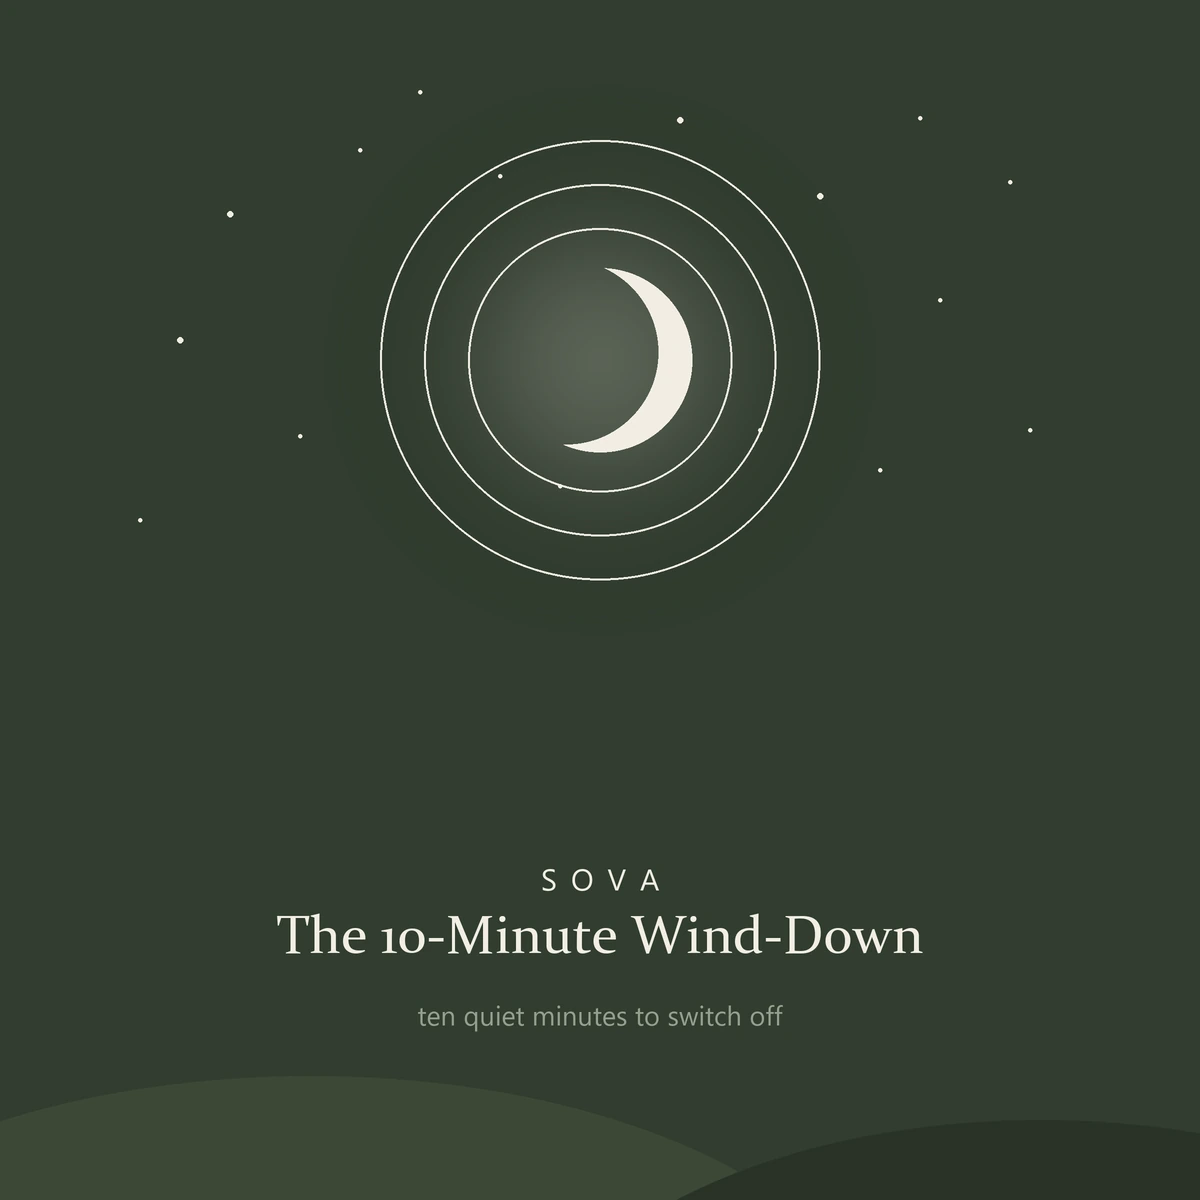
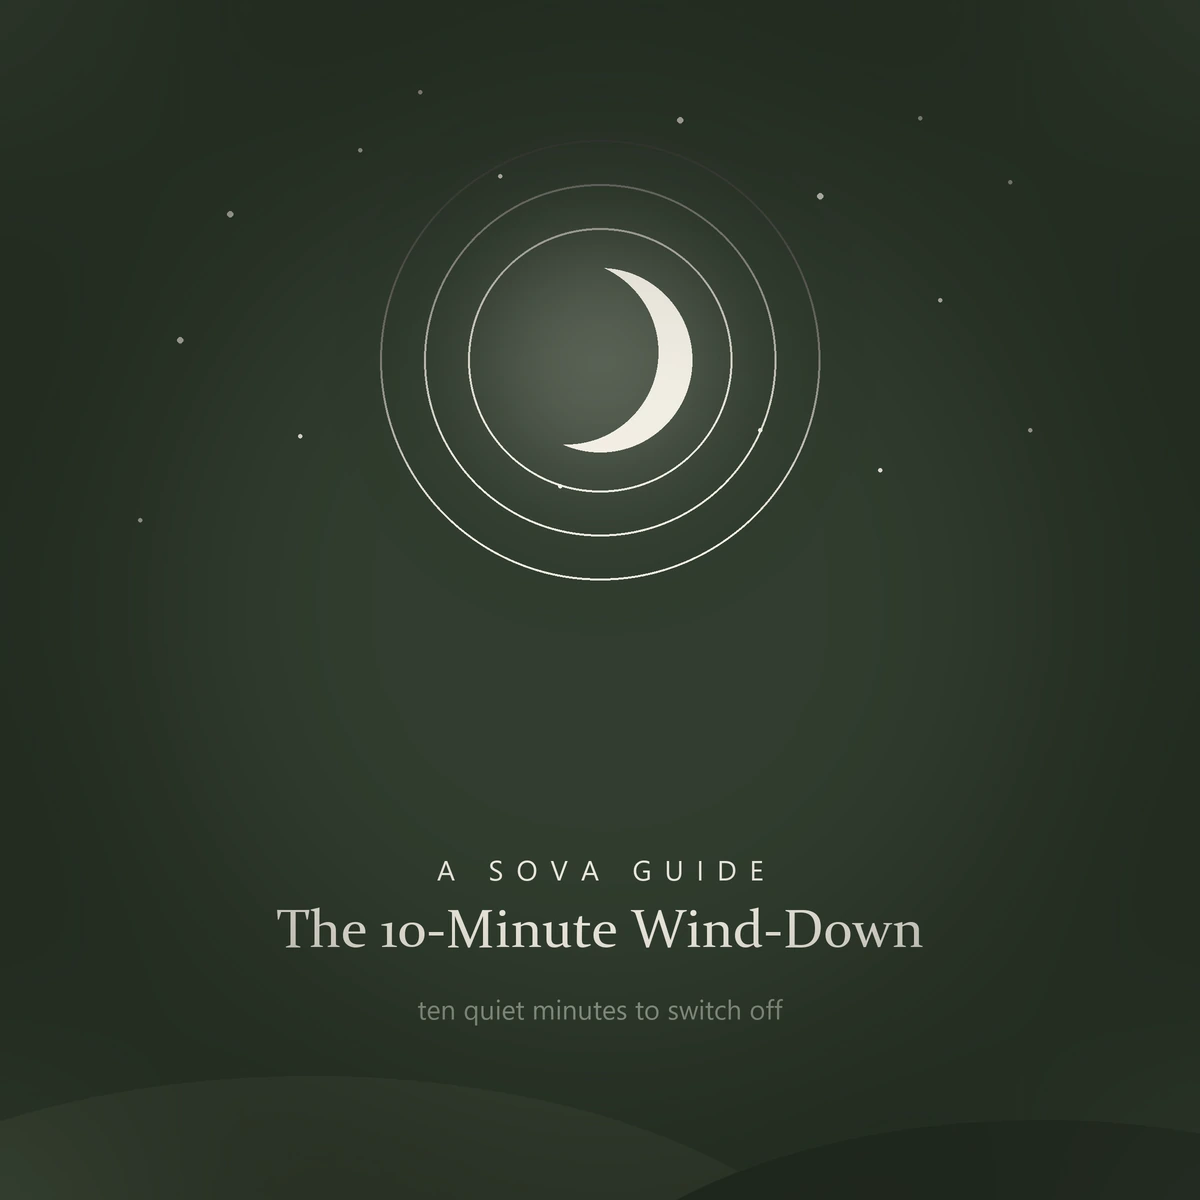
Offer visuals: half-width Nuro, premium green diagram, guide night tile
- Layout: Nuro image now ~half width (ends at the middle) via a 50/50 grid,
  so the product is smaller and the three stacked tiles are larger.
- Trigger Points Map redesigned on deep green with a soft body fill, warm
  tension-glows behind the numbered points, and depth (matches the green
  set, far less basic).
- Night tile now reads "A SOVA GUIDE" above the title, with a soft vignette.

Claude-Session: https://claude.ai/code/session_01V2szZYPdXTGkr3oP2i7kNf

Changed region(s): [[0.2158, 0.7092, 0.7708, 0.8017], [0.3392, 0.8325, 0.6475, 0.8633]]

diff --git a/src/components/product/special-offer.tsx b/src/components/product/special-offer.tsx
@@ -73,9 +73,9 @@ export default function SpecialOffer() {
         </ScrollReveal>
 
         <ScrollReveal>
-          <div className="grid grid-cols-4 gap-3 md:gap-4 items-stretch w-full max-w-4xl mx-auto">
-            {/* Big Nuro image on the left */}
-            <div className="col-span-3 rounded-2xl md:rounded-3xl overflow-hidden border border-black/[0.06] shadow-lg">
+          <div className="grid grid-cols-2 gap-3 md:gap-4 items-stretch w-full max-w-3xl mx-auto">
+            {/* Nuro image on the left, ending at the middle */}
+            <div className="rounded-2xl md:rounded-3xl overflow-hidden border border-black/[0.06] shadow-lg">
               <Image
                 src="/products/nuro-main-v2.webp"
                 alt="The Nuro heated shiatsu neck and shoulder massager"
